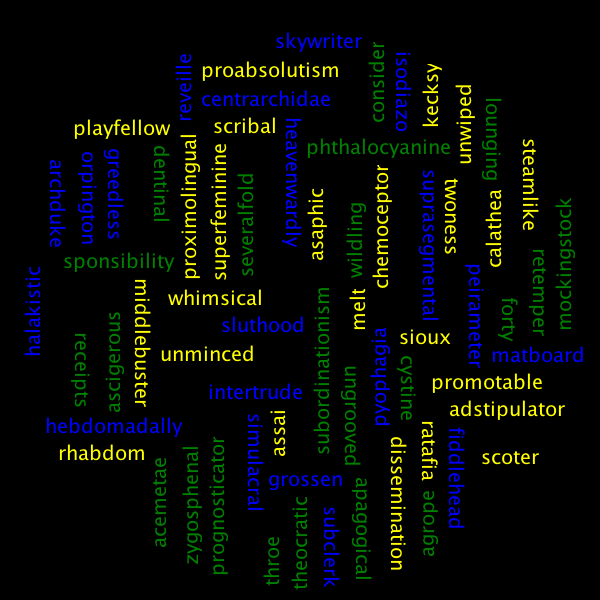
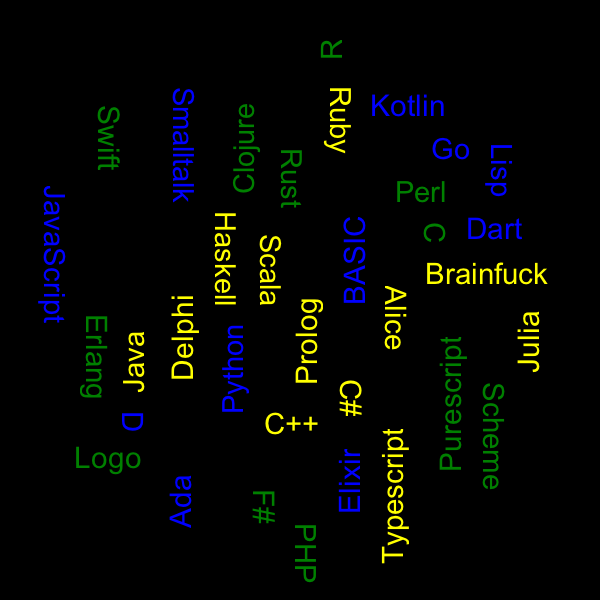
Fix examples

Changed region(s): [[0.03, 0.06, 0.99, 0.99]]

diff --git a/README.md b/README.md
@@ -16,19 +16,25 @@ Given a map of element and the frequency the following image is generated. More 
 (ns examples
   (:require [clj-wordcloud.core :refer :all]))
 
-(let [frequency-map (zipmap (random-words 100) (shuffle (range 300)))
-      word-cloud (word-cloud frequency-map
-                             {:dimension  {:width  600
-                                           :height 600}
-                              :background {:type :circle
-                                           :size 300
-                                           :color "0x000000"}
-                              :font       {:type       "Calibre"
-                                           :weight     :plain
-                                           :scale-type :linear
-                                           :x-scale    20
-                                           :y-scale    20
-                                           :padding    5}})]
+(def programming-languages ["Clojure" "Haskell" "Go" "Rust" "Scala" "Python" "Perl"
+                            "Ruby" "Smalltalk" "PHP" "Java" "JavaScript"
+                            "C" "C++" "Lisp" "Scheme" "Typescript" "D" "R" "Brainfuck" "Elixir"
+                            "Erlang" "C#" "BASIC" "Logo" "Alice" "Dart" "Purescript" "Prolog"
+                            "Ada" "F#" "Julia" "Kotlin" "Swift" "Delphi"])
+
+(let [frequency-map (zipmap programming-languages (shuffle (range 300)))
+      word-cloud    (word-cloud frequency-map
+                                {:dimension  {:width  600
+                                              :height 600}
+                                 :background {:type  :circle
+                                              :size  300
+                                              :color "0x000000"}
+                                 :font       {:type       "Calibre"
+                                              :weight     :plain
+                                              :scale-type :linear
+                                              :x-scale    20
+                                              :y-scale    20
+                                              :padding    5}})]
   (write-to-file word-cloud "example_circle.png"))
 ```
 
